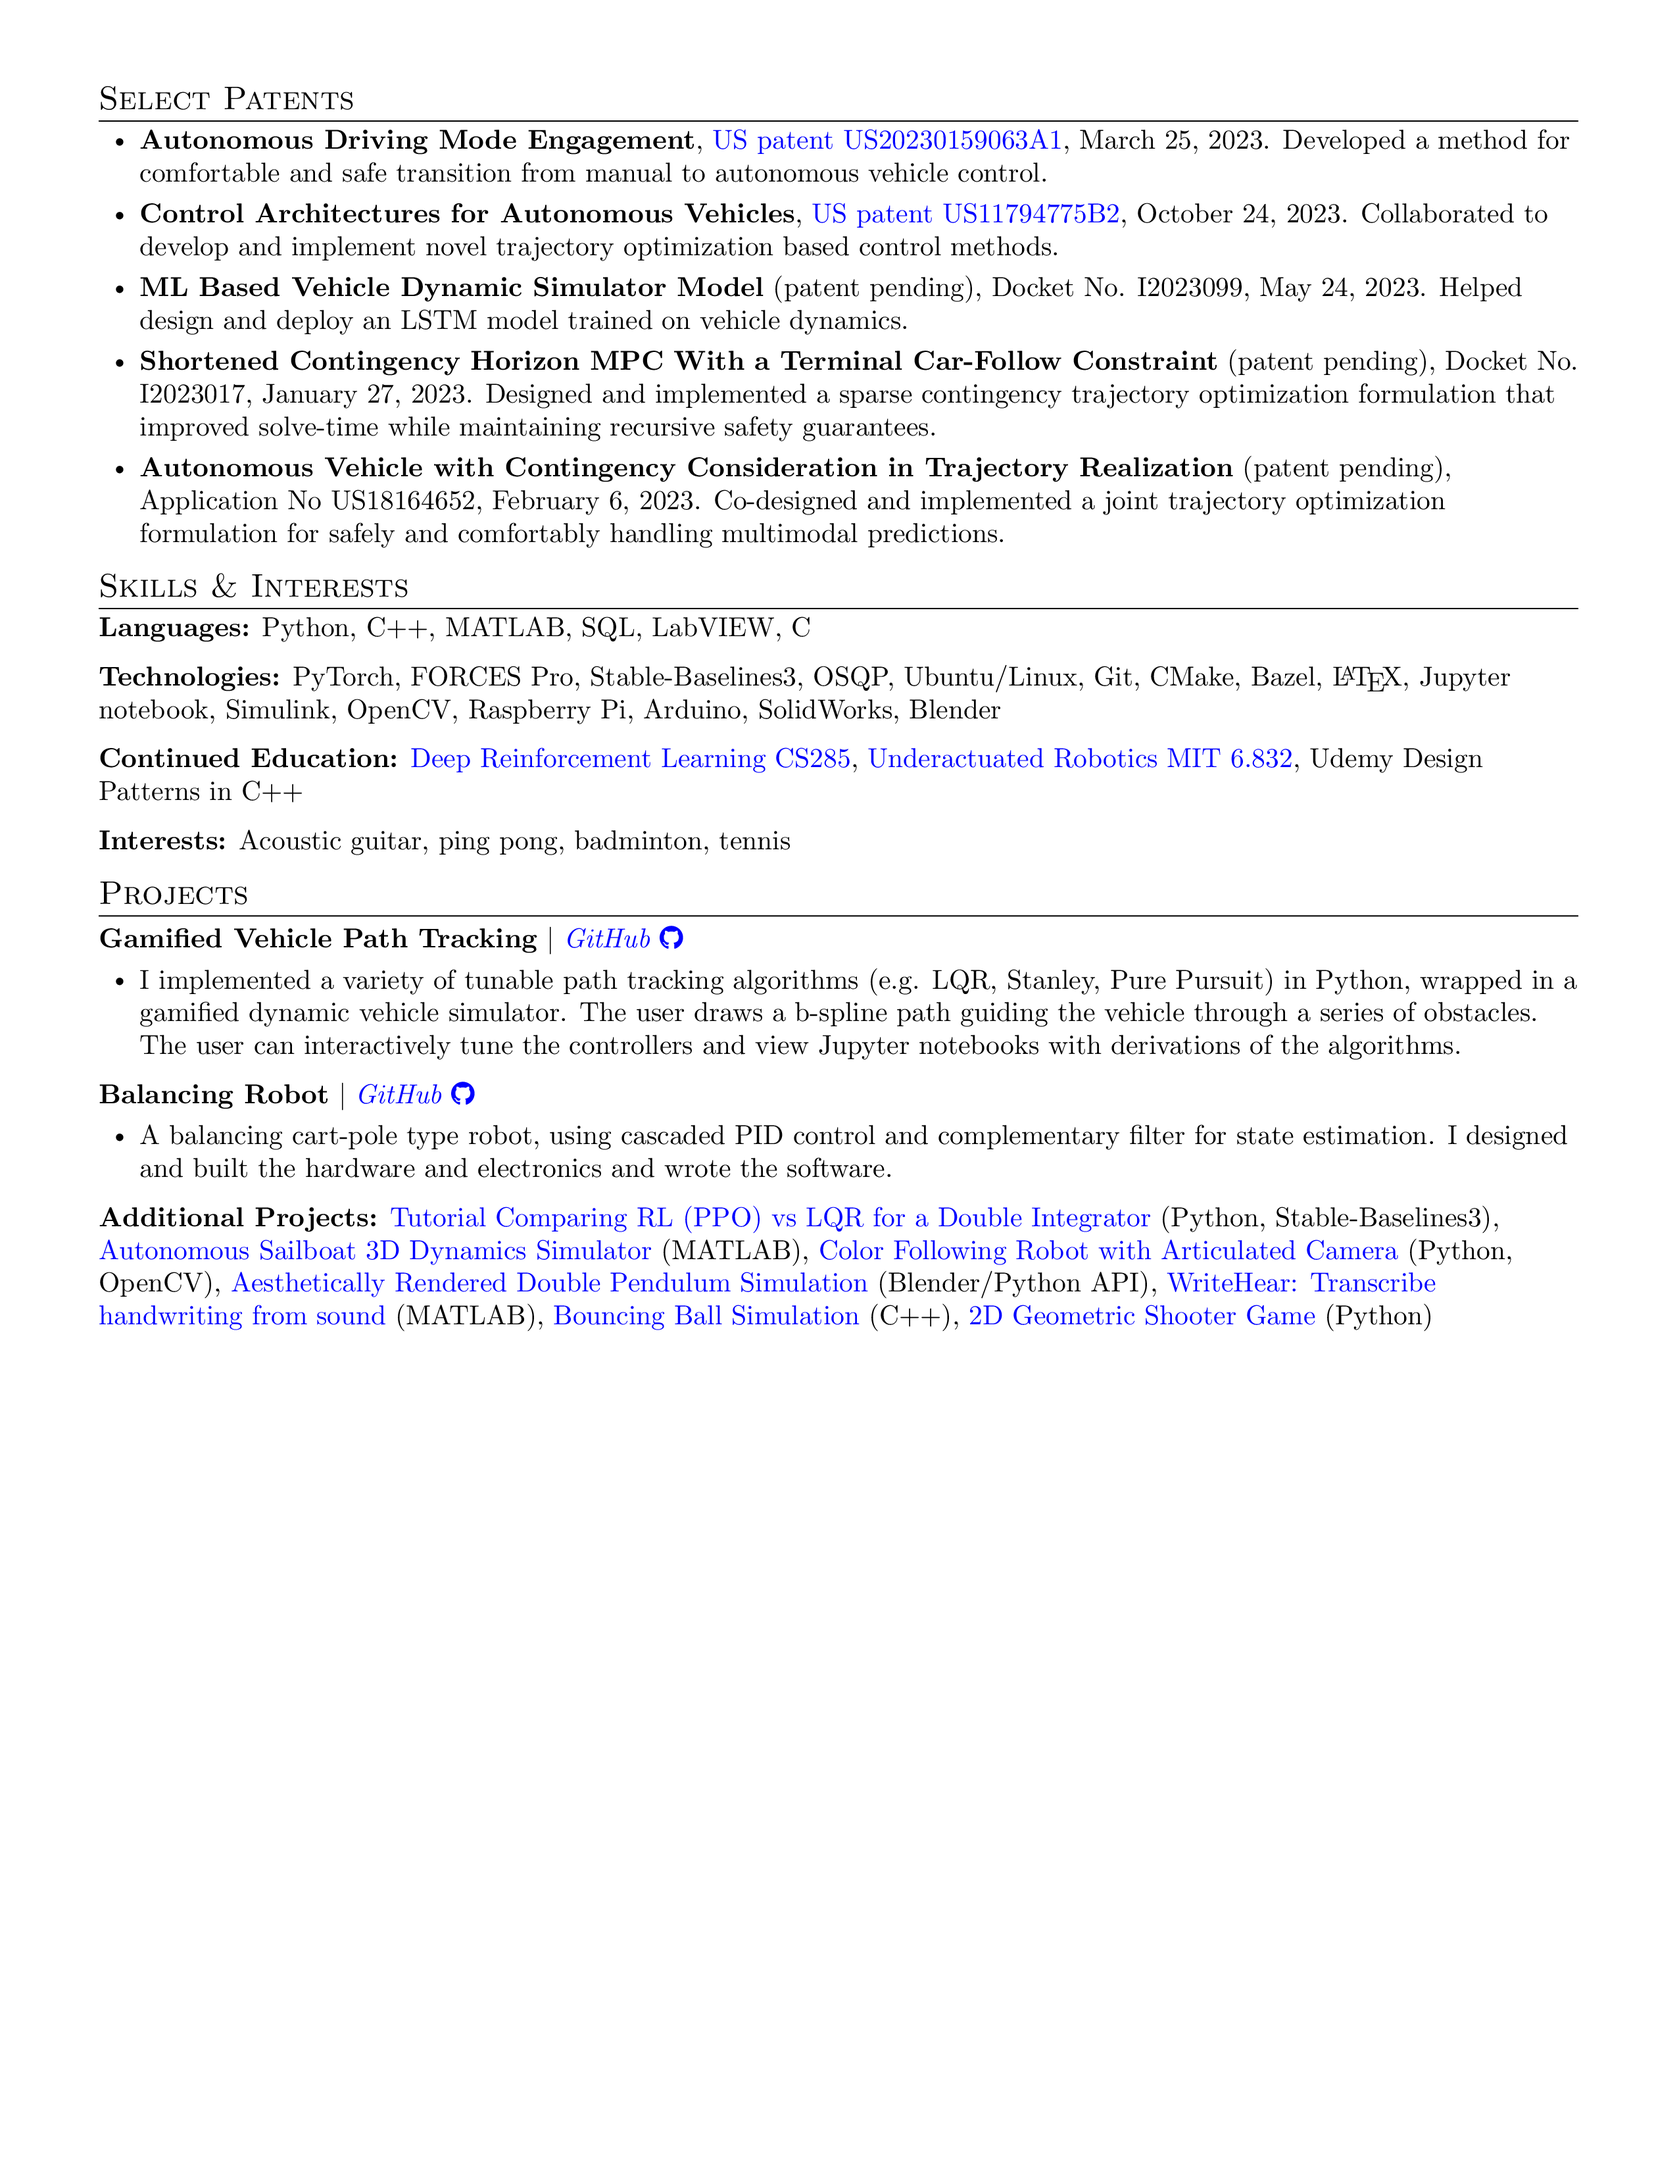
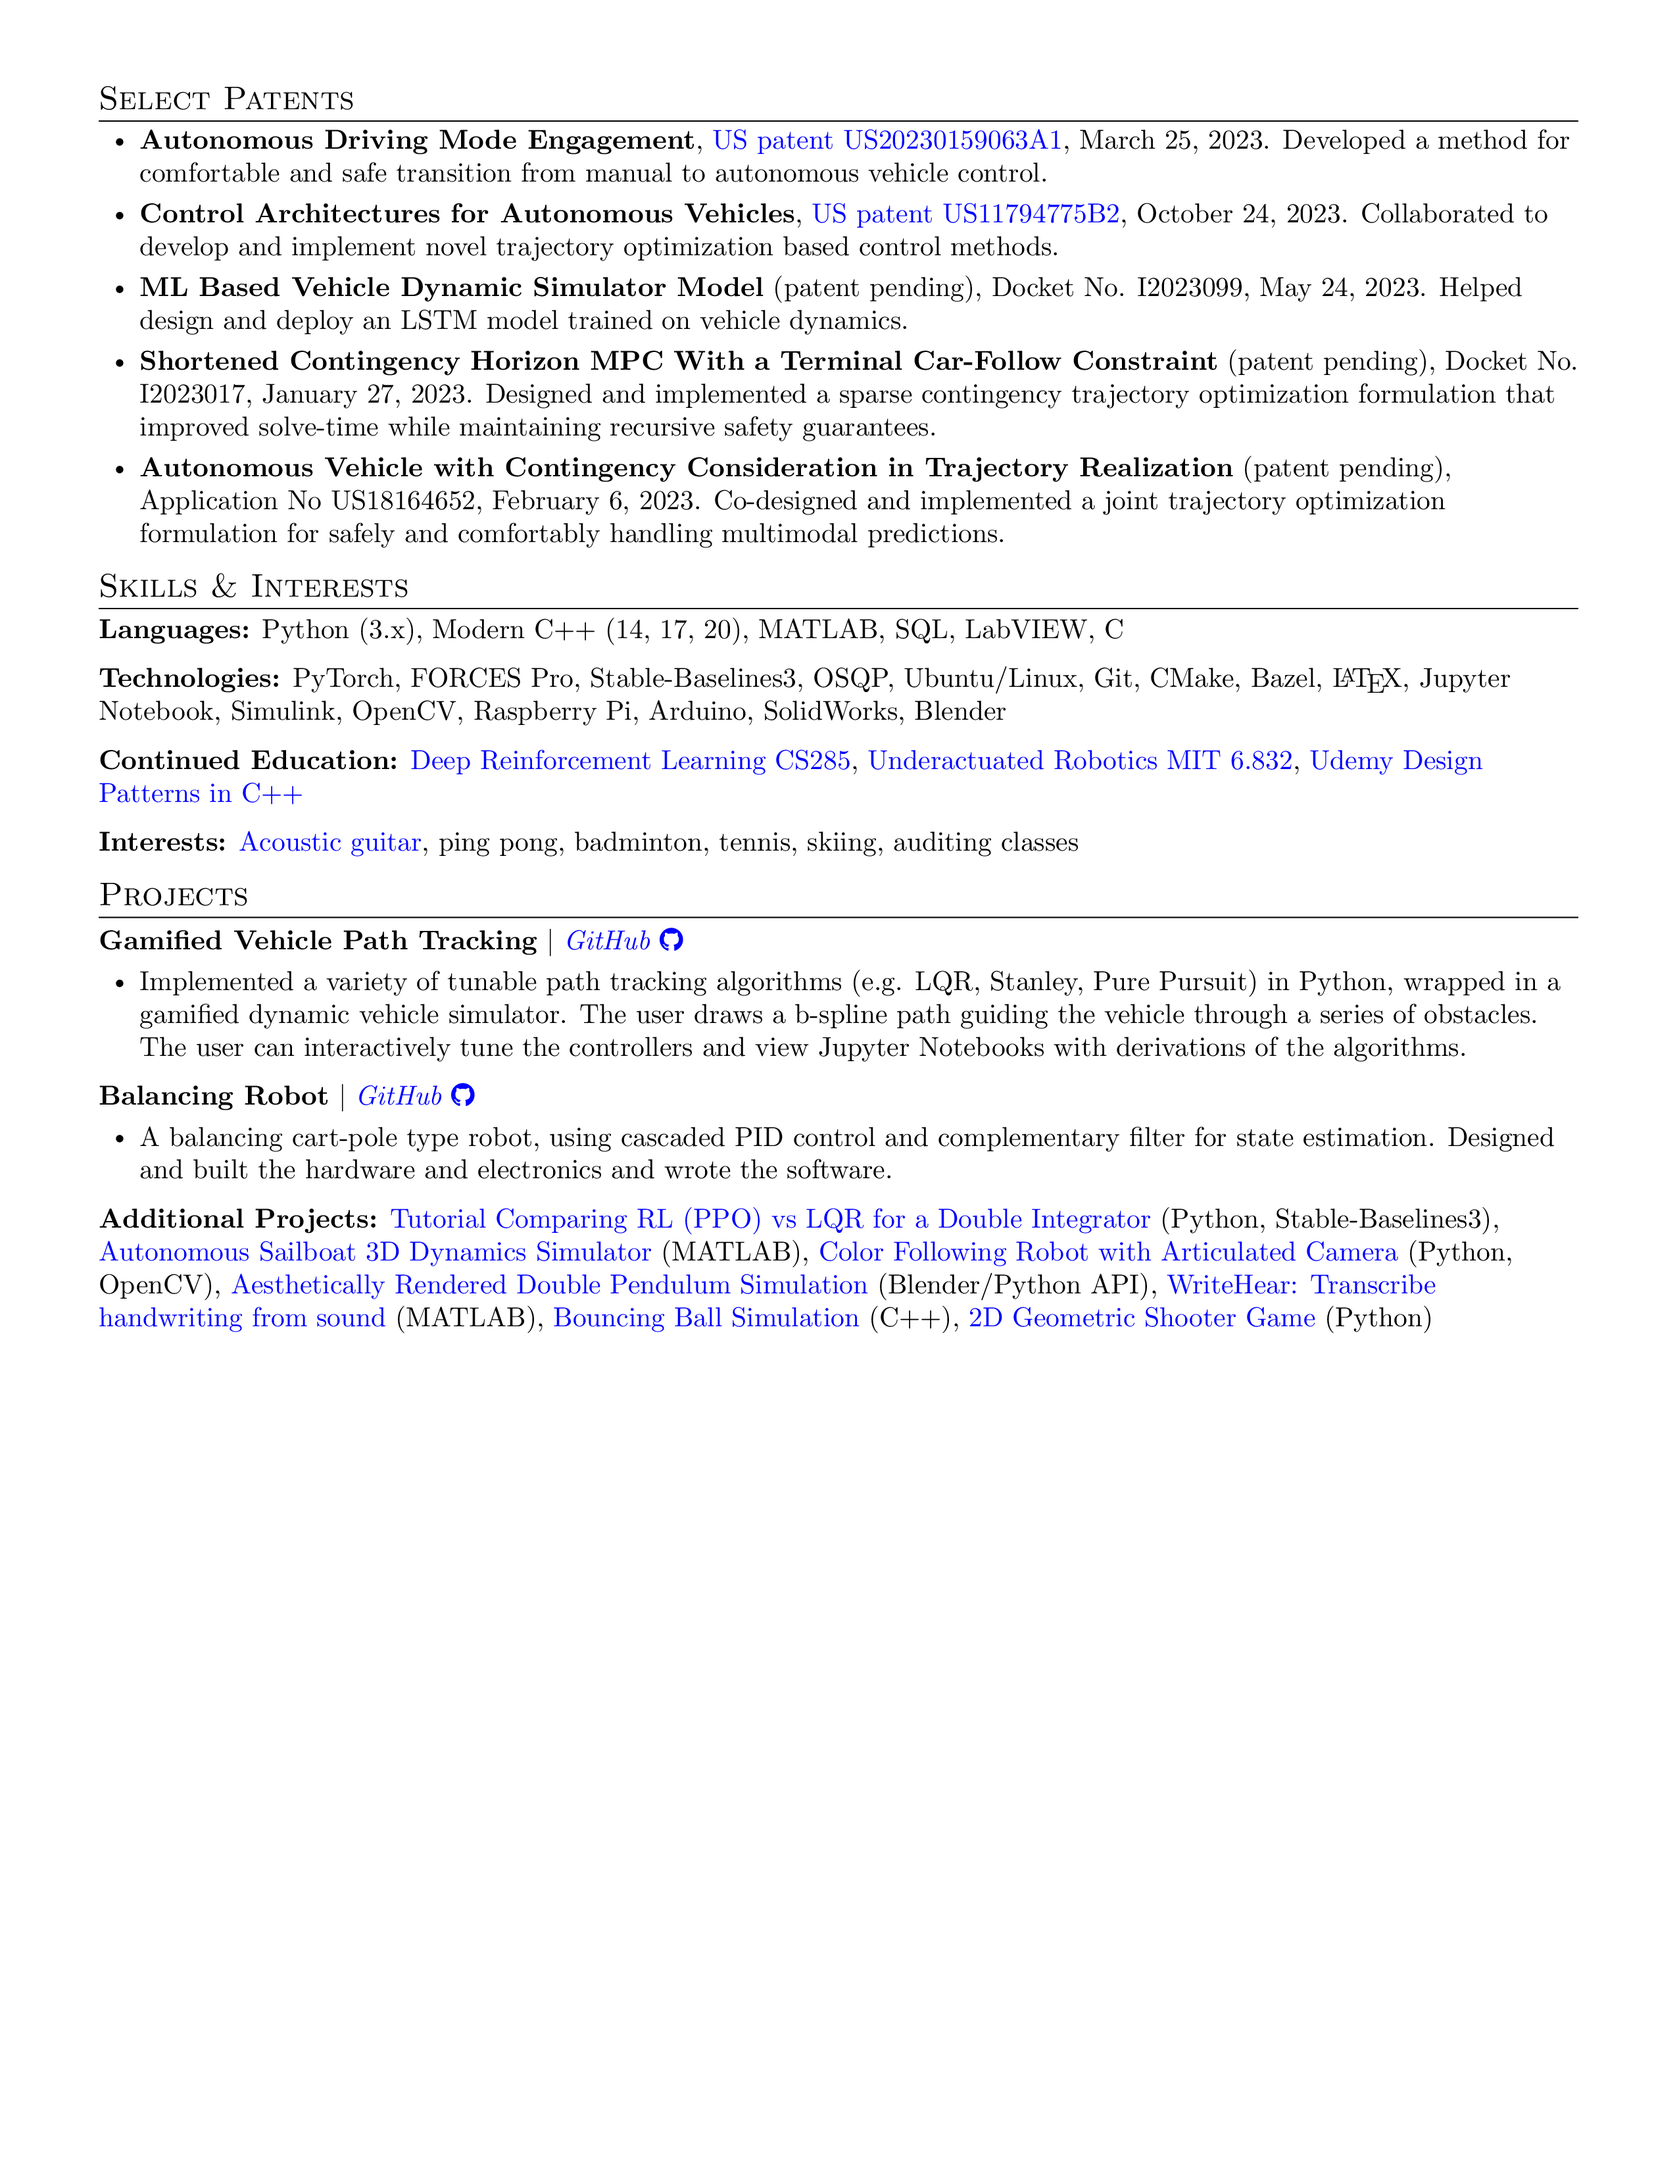
small edits

diff --git a/jesse_miller_resume.tex b/jesse_miller_resume.tex
@@ -334,13 +334,13 @@
 
 \section{Skills \& Interests}
 \sectionListStart
-\bulletItem{\textbf{Languages:}{ Python, C++, MATLAB, SQL, LabVIEW, C}}
+\bulletItem{\textbf{Languages:}{ Python (3.x), Modern C++ (14, 17, 20), MATLAB, SQL, LabVIEW, C}}
 \vspace{\vspaceAfterBullets}
-\bulletItem{\textbf{Technologies:}{ PyTorch, FORCES Pro, Stable-Baselines3, OSQP, Ubuntu/Linux, Git, CMake, Bazel, \LaTeX, Jupyter notebook, Simulink, OpenCV, Raspberry Pi, Arduino, SolidWorks, Blender}}
+\bulletItem{\textbf{Technologies:}{ PyTorch, FORCES Pro, Stable-Baselines3, OSQP, Ubuntu/Linux, Git, CMake, Bazel, \LaTeX, Jupyter Notebook, Simulink, OpenCV, Raspberry Pi, Arduino, SolidWorks, Blender}}
 \vspace{\vspaceAfterBullets}
-\bulletItem{\textbf{Continued Education:}{ \bref{https://github.com/jam643/CS285DeepRL/tree/master}{Deep Reinforcement Learning CS285}, \bref{https://github.com/jam643/UnderactuatedRobotics-6p832-JesseM}{Underactuated Robotics MIT 6.832}, Udemy Design Patterns in C++}}
+\bulletItem{\textbf{Continued Education:}{ \bref{https://github.com/jam643/CS285DeepRL/tree/master}{Deep Reinforcement Learning CS285}, \bref{https://github.com/jam643/UnderactuatedRobotics-6p832-JesseM}{Underactuated Robotics MIT 6.832}, \bref{https://github.com/jam643/Courses_JesseM/tree/master/DesignPatternsCpp}{Udemy Design Patterns in C++}}}
 \vspace{\vspaceAfterBullets}
-\bulletItem{\textbf{Interests:}{ Acoustic guitar, ping pong, badminton, tennis}}
+\bulletItem{\textbf{Interests:}{ \bref{https://www.youtube.com/watch?v=z41U4mtKEJw}{Acoustic guitar}, ping pong, badminton, tennis, skiing, auditing classes}}
 \sectionListEnd
 
 %----------- PROJECTS -----------
@@ -351,7 +351,7 @@
 \resumeProjectHeading
 {\textbf{Gamified Vehicle Path Tracking} $|$ \emph{\bref{https://github.com/jam643/TheTrolleyProblemGame}{GitHub \faGithub}}}{}
 \outerBulletListStart
-\bulletItem{I implemented a variety of tunable path tracking algorithms (e.g. LQR, Stanley, Pure Pursuit) in Python, wrapped in a gamified dynamic vehicle simulator. The user draws a b-spline path guiding the vehicle through a series of obstacles. The user can interactively tune the controllers and view Jupyter notebooks with derivations of the algorithms.}
+\bulletItem{Implemented a variety of tunable path tracking algorithms (e.g. LQR, Stanley, Pure Pursuit) in Python, wrapped in a gamified dynamic vehicle simulator. The user draws a b-spline path guiding the vehicle through a series of obstacles. The user can interactively tune the controllers and view Jupyter Notebooks with derivations of the algorithms.}
 \outerBulletListEnd
 
 % \resumeProjectHeading
@@ -369,7 +369,7 @@
 \resumeProjectHeading
 {\textbf{Balancing Robot} $|$ \emph{\bref{https://github.com/jam643/BalancingBot}{GitHub \faGithub}}}{}
 \outerBulletListStart
-\bulletItem{A balancing cart-pole type robot, using cascaded PID control and complementary filter for state estimation. I designed and built the hardware and electronics and wrote the software.}
+\bulletItem{A balancing cart-pole type robot, using cascaded PID control and complementary filter for state estimation. Designed and built the hardware and electronics and wrote the software.}
 \outerBulletListEnd
 
 
